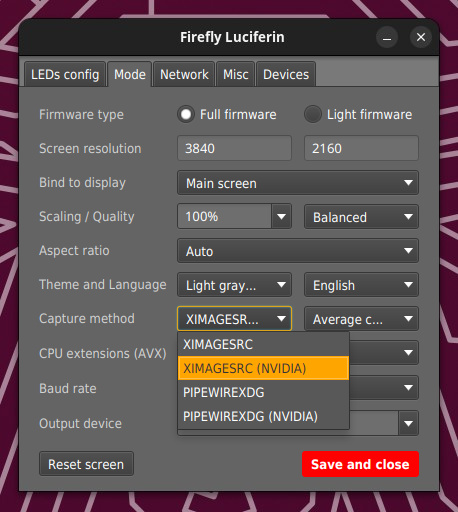
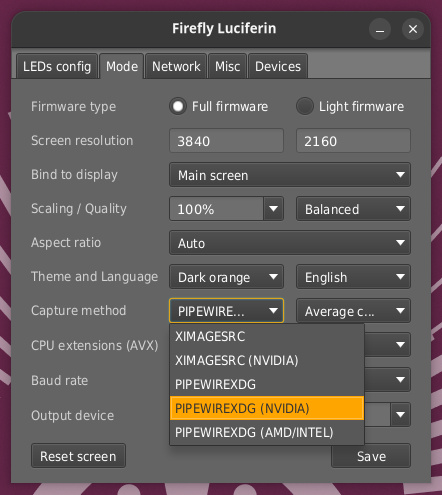
AMD/Intel optimizations on Linux

diff --git a/src/main/java/org/dpsoftware/managers/PipelineManager.java b/src/main/java/org/dpsoftware/managers/PipelineManager.java
@@ -591,6 +591,8 @@ public class PipelineManager {
                 || (MainSingleton.getInstance().config.getCaptureMethod().equals(Configuration.CaptureMethod.DDUPL_DX12.name()))
                 || (MainSingleton.getInstance().config.getCaptureMethod().equals(Configuration.CaptureMethod.XIMAGESRC.name()))
                 || (MainSingleton.getInstance().config.getCaptureMethod().equals(Configuration.CaptureMethod.PIPEWIREXDG.name()))
+                || (MainSingleton.getInstance().config.getCaptureMethod().equals(Configuration.CaptureMethod.PIPEWIREXDG_NVIDIA.name()))
+                || (MainSingleton.getInstance().config.getCaptureMethod().equals(Configuration.CaptureMethod.PIPEWIREXDG_AMD_INTEL.name()))
                 || (MainSingleton.getInstance().config.getCaptureMethod().equals(Configuration.CaptureMethod.AVFVIDEOSRC.name())))) {
             GrabberSingleton.getInstance().pipe.stop();
         }
